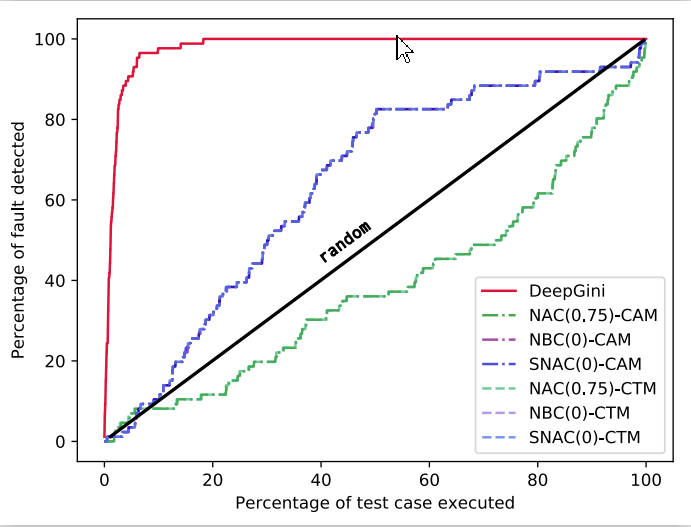
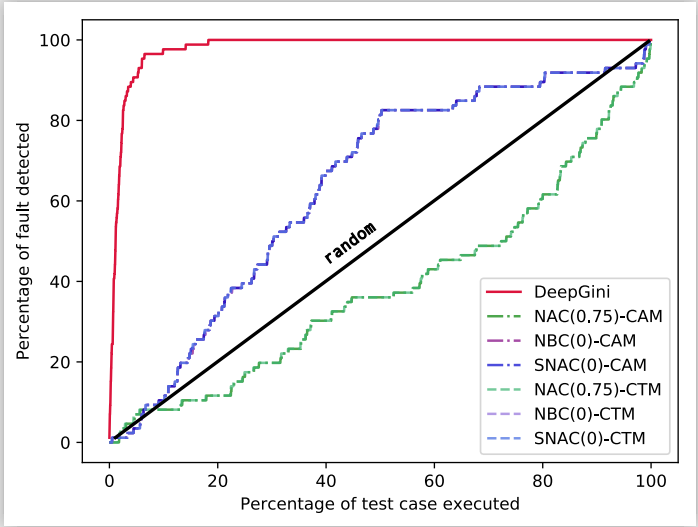
add figure and table

diff --git a/README.md b/README.md
@@ -68,15 +68,15 @@ The data we use are mnist dataset, svhn dataset, fashion dataset, cifar10 datase
 
 ##### apfd
 
-![1](./src/ap1.png)
-![1](./src/ap2.png)
-![1](./src/ap3.png)
-![1](./src/ap4.png)
+![1](https://github.com/853108389/deepgini/blob/master/src/ap1.png)
+![1](https://github.com/853108389/deepgini/blob/master/src/ap2.png)
+![1](https://github.com/853108389/deepgini/blob/master/src/ap3.png)
+![1](https://github.com/853108389/deepgini/blob/master/src/ap4.png)
 
 
 ##### retrain 
 
-![2](./src/re1.png)
+![2](https://github.com/853108389/deepgini/blob/master/src/re1.png)
 
-![2](./src/re2.png)
+![2](https://github.com/853108389/deepgini/blob/master/src/re2.png)
 
